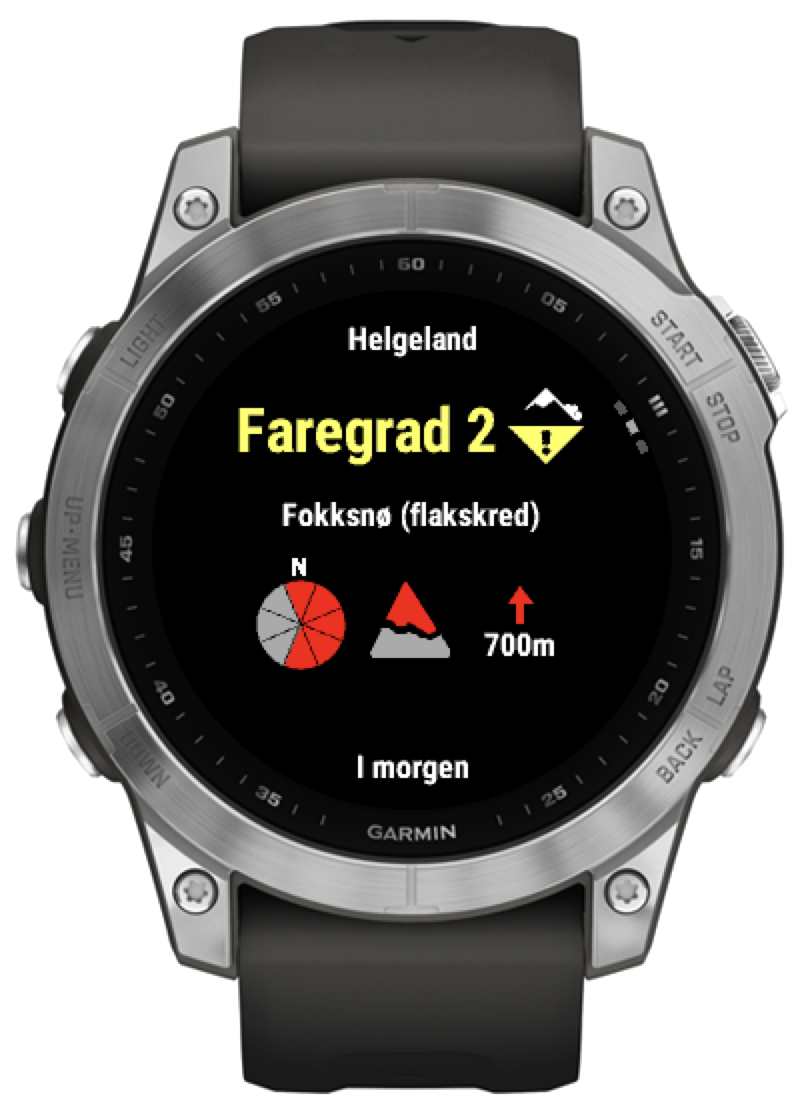
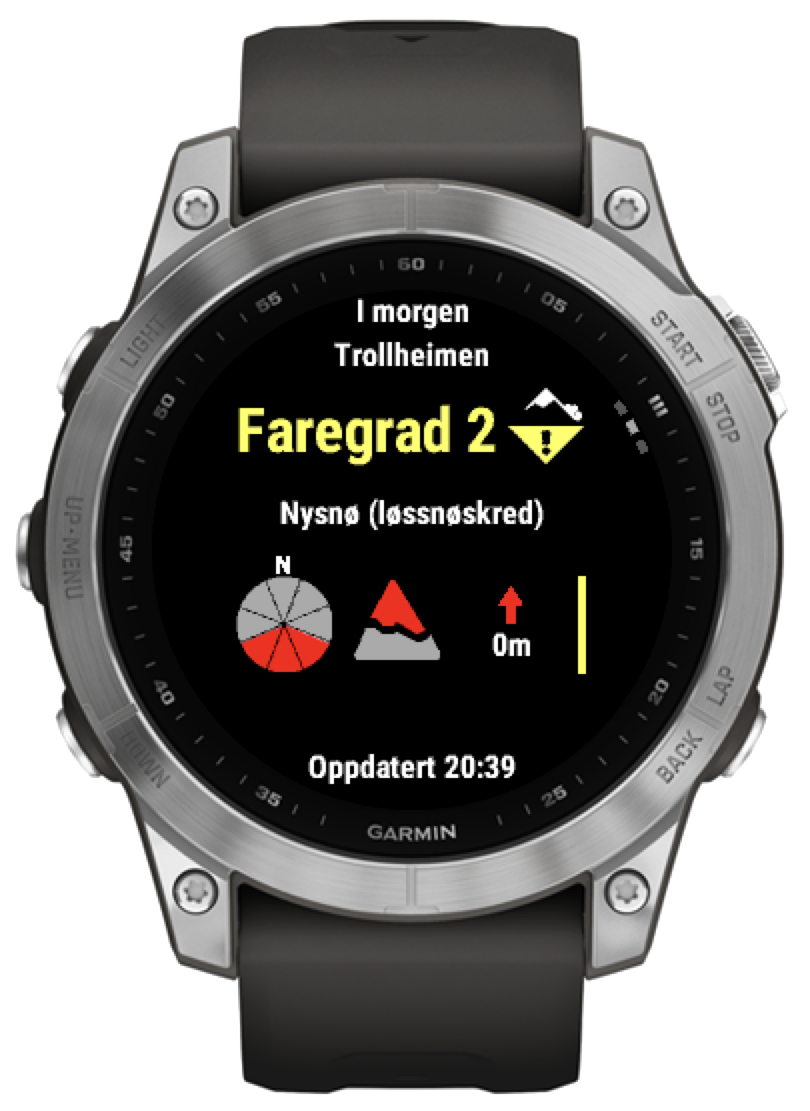
Add multiple questions. Update assets with new detail view. Fix header break on main page.

diff --git a/SkredvarselGarminWeb/SkredvarselGarminWeb/Frontend/src/Components/FaqPage.tsx b/SkredvarselGarminWeb/SkredvarselGarminWeb/Frontend/src/Components/FaqPage.tsx
@@ -11,7 +11,14 @@ import {
   ListItem,
   OrderedList,
   useBreakpointValue,
+  Text,
+  UnorderedList,
+  Wrap,
+  WrapItem,
+  Image,
 } from "@chakra-ui/react";
+
+import problemsHelpImage from "../assets/problems_help.png";
 
 export const FaqPage = () => {
   return (
@@ -23,7 +30,7 @@ export const FaqPage = () => {
       py={10}
       px={useBreakpointValue({ base: 4, sm: 10 })}
     >
-      <Heading as="h2" size="2xl" mb={4}>
+      <Heading as="h1" size="2xl" mb={4}>
         Ofte stilte spørsmål
       </Heading>
 
@@ -80,6 +87,46 @@ export const FaqPage = () => {
           <h2>
             <AccordionButton>
               <Box as="span" flex="1" textAlign="left">
+                Hva betyr symbolene i detaljvisningen?
+              </Box>
+              <AccordionIcon />
+            </AccordionButton>
+          </h2>
+          <AccordionPanel pb={4}>
+            <Flex
+              gap={4}
+              flexDir={useBreakpointValue({ base: "column", sm: "row" })}
+            >
+              <Box flexBasis={useBreakpointValue({ base: "50%", sm: "40%" })}>
+                <Image src={problemsHelpImage} />
+              </Box>
+              <Box flexBasis={useBreakpointValue({ base: "50%" })}>
+                <Text mb={2}>Rødt markerer området som er mest utsatt.</Text>
+                <OrderedList mb={2}>
+                  <ListItem>
+                    Himmelretninger som er mest utsatt for skredproblemet.
+                  </ListItem>
+                  <ListItem>Hvor i fjellet skredproblemet er.</ListItem>
+                  <ListItem>
+                    Høyder over havet hvor skredproblemet finnes.
+                  </ListItem>
+                  <ListItem>Varslet faregrad for skredproblemet.</ListItem>
+                </OrderedList>
+                <Text>
+                  NB! Det vil alltid være lokale variasjoner, og de røde
+                  områdene angir mest utsatte steder. Det vil si at
+                  skredproblemet også kan være tilstede i andre områder, men det
+                  er forventa at det er i mindre omfang her.
+                </Text>
+              </Box>
+            </Flex>
+          </AccordionPanel>
+        </AccordionItem>
+
+        <AccordionItem>
+          <h2>
+            <AccordionButton>
+              <Box as="span" flex="1" textAlign="left">
                 Kan jeg betale med noe annet enn Vipps?
               </Box>
               <AccordionIcon />
@@ -103,16 +150,34 @@ export const FaqPage = () => {
             </AccordionButton>
           </h2>
           <AccordionPanel pb={4}>
-            Appen virker på de fleste nyere Garmin-klokker som har fargeskjerm.
-            En fullstendig oversikt kan sees på{" "}
-            <Link
-              href="https://apps.garmin.com/en-US/apps/35174bf3-b1da-4391-9426-70bcb210c292"
-              target="_blank"
-              color="blue.600"
-            >
-              Connect IQ Store
-            </Link>
-            .
+            <Text mb={4}>
+              Appen virker på de fleste nyere Garmin-klokker som har
+              fargeskjerm. En fullstendig oversikt kan sees på{" "}
+              <Link
+                href="https://apps.garmin.com/en-US/apps/35174bf3-b1da-4391-9426-70bcb210c292"
+                target="_blank"
+                color="blue.600"
+              >
+                Connect IQ Store
+              </Link>
+              . Hvis du har en klokke med støtte for musikk er det større
+              sannsynlighet for at appen virker, siden de klokkene har mer
+              minne.
+            </Text>
+            <Text mb={4}>
+              Klokker hvor appen ikke virker på grunn av manglende minne:
+            </Text>
+            <UnorderedList>
+              <ListItem>Fenix 3</ListItem>
+              <ListItem>Fenix 5</ListItem>
+              <ListItem>Fenix 5S</ListItem>
+              <ListItem>Fenix 5X</ListItem>
+              <ListItem>Fenix 6 (non-pro)</ListItem>
+              <ListItem>Forerunner 635</ListItem>
+              <ListItem>Forerunner 935</ListItem>
+              <ListItem>Forerunner 235 (non-music)</ListItem>
+              <ListItem>Vivoactive 3</ListItem>
+            </UnorderedList>
           </AccordionPanel>
         </AccordionItem>
 
@@ -194,6 +259,58 @@ export const FaqPage = () => {
             tillegg hentes de på nytt når du åpner appen dersom de er gamle.
             Hvis varslene er eldre enn 24 timer gamle vil de ikke lenger vises
             frem.
+          </AccordionPanel>
+        </AccordionItem>
+
+        <AccordionItem>
+          <h2>
+            <AccordionButton>
+              <Box as="span" flex="1" textAlign="left">
+                Hvordan kommuniserer klokka med internett?
+              </Box>
+              <AccordionIcon />
+            </AccordionButton>
+          </h2>
+          <AccordionPanel pb={4}>
+            Klokka er avhengig av tilkobling til mobiltelefon med Bluetooth for
+            å få hentet varsler fra internett, siden nesten ingen Garmin-klokker
+            har direkte tilgang til internett selv. Hvis klokken din har
+            utdaterte varsler eller slutter å vise varsler kan det være fordi
+            klokka mangler tilkobling til mobil.
+          </AccordionPanel>
+        </AccordionItem>
+
+        <AccordionItem>
+          <h2>
+            <AccordionButton>
+              <Box as="span" flex="1" textAlign="left">
+                Kan klokka forstyrre skredsøkeren (sender/mottaker)?
+              </Box>
+              <AccordionIcon />
+            </AccordionButton>
+          </h2>
+          <AccordionPanel pb={4}>
+            Akkurat som at en mobiltelefon kan forstyrre en skredsøker, er det
+            også en viss mulighet for at en smartklokke kan forårsake
+            forstyrrelser. Derfor anbefales det å slå av kommunikasjon med
+            mobiltelefonen mens man går tur. En{" "}
+            <Link
+              href="https://arc.lib.montana.edu/snow-science/objects/ISSW14_paper_P4.13.pdf"
+              color="blue.600"
+              target="_blank"
+            >
+              forskningsartikkel
+            </Link>{" "}
+            fra 2014 publiserte en anbefaling om at man har klokka på motsatt
+            hånd av den hånda man bruker en en skredsøker i søk-modus.
+            <br />
+            <br />
+            For å slå av kommunikasjon med mobiltelefon underveis på turen kan
+            man på de fleste Garmin-klokker konfigurere "Power mode" underveis i
+            en aktivitet. Da kan man velge at "Power mode" for aktiviteten du
+            bruker under topptur slår av kommunikasjon med mobil. Se
+            instruksjonsboka for klokken din for å finne ut hvordan du gjør det
+            på din klokke.
           </AccordionPanel>
         </AccordionItem>
 

diff --git a/SkredvarselGarminWeb/SkredvarselGarminWeb/Frontend/src/Components/FrontPage.tsx b/SkredvarselGarminWeb/SkredvarselGarminWeb/Frontend/src/Components/FrontPage.tsx
@@ -39,8 +39,9 @@ export const FrontPage = () => {
               lineHeight={1.2}
               fontSize={useBreakpointValue({ base: "3xl", md: "4xl" })}
             >
-              Skredvarsel for Garmin-klokker. Oppdatert og tilgjengelig mens du
-              er på tur.
+              Skredvarsel for Garmin-klokker.
+              <br />
+              Oppdatert og tilgjengelig mens du er på tur.
             </Text>
             <Stack direction={"row"} align={"center"} justify={"center"}>
               <Text color={"white"} fontSize={"3xl"} fontWeight={800}>
